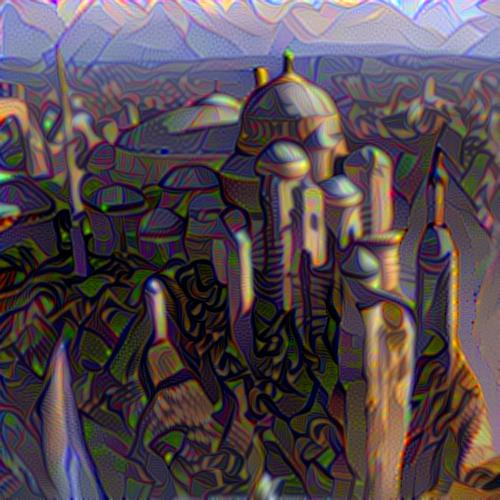
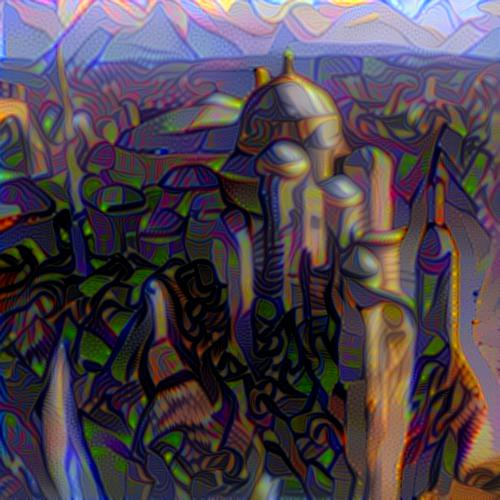
Completed style transfer. Produces stylized images but transfer steps are virtually identical.

diff --git a/lab3.py b/lab3.py
@@ -27,30 +27,26 @@ os.environ['TF_CPP_MIN_LOG_LEVEL'] = '2'
 CONTENT_IMG_PATH = ""           #TODO: Add this.
 STYLE_IMG_PATH = ""             #TODO: Add this.
 
-
 CONTENT_IMG_H = 500
 CONTENT_IMG_W = 500
 
 STYLE_IMG_H = 500
 STYLE_IMG_W = 500
 
-CONTENT_WEIGHT = 1    # Alpha weight.
-STYLE_WEIGHT = 1000      # Beta weight.
-TOTAL_WEIGHT = 100
+CONTENT_WEIGHT = 0.0001    # Alpha weight.
+STYLE_WEIGHT = 0.1      # Beta weight.
+TOTAL_WEIGHT = 0.001
 
-TRANSFER_ROUNDS = 50
+TRANSFER_ROUNDS = 100
 
 SAVE_PATH = None
 
 globalLoss = None
 globalGrads = None
 getLossAndGradients = None
+
 #=============================<Helper Fuctions>=================================
-'''
-TODO: implement this.
-This function should take the tensor and re-convert it to an image.
-'''
-def deprocessImage(img):
+def deprocessImage(img): # Deprocessing explained in https://harishnarayanan.org/writing/artistic-style-transfer/
     if K.image_data_format() == 'channels_first':
         img = img.reshape((3, CONTENT_IMG_H, CONTENT_IMG_W))
         img = img.transpose((1, 2, 0))
@@ -70,14 +66,6 @@ def gramMatrix(x):
     return gram
 
 
-def getOutput(layers, model):
-    output = list()
-    for layer in layers:
-        output.append(model.get_layer(layer).output)
-    print(output)
-    return output
-
-
 #========================<Loss Function Builder Functions>======================
 
 def styleLoss(style, gStyle):
@@ -90,12 +78,10 @@ def contentLoss(content, gContent):
     return K.sum(K.square(gContent - content))
 
 
-def totalLoss(x):
-    a = K.square(x[:, :CONTENT_IMG_H - 1, :CONTENT_IMG_W - 1, :] -
-                 x[:, 1:, :CONTENT_IMG_W - 1, :])
-    b = K.square(x[:, :CONTENT_IMG_H - 1, :CONTENT_IMG_W - 1, :] -
-                 x[:, :CONTENT_IMG_H - 1, 1:, :])
-    return K.sum(K.pow(a + b, 1.25))
+# def totalLoss(x):
+#     a = x[:, :, 1:, :] - x[:, :, :-1, :]
+#     b = x[:, 1:, :, :] - x[:, :-1, :, :]
+#     return tf.reduce_sum(tf.abs(a)) + tf.reduce_sum(tf.abs(b))
 
 
 def calculateLoss(x):
@@ -115,7 +101,6 @@ def getGradients(x):
     globalLoss = None
     globalGrads = None
     return grads
-
 
 
 #=========================<Pipeline Functions>==================================
@@ -146,6 +131,8 @@ def preprocessData(raw):
     return img
 
 
+
+
 '''
 TODO: Allot of stuff needs to be implemented in this function.
 First, make sure the model is set up properly.
@@ -162,6 +149,7 @@ def styleTransfer(cData, sData, tData):
     inputTensor = K.concatenate([contentTensor, styleTensor, genTensor], axis=0)
 
     model = vgg19.VGG19(include_top=False, weights='imagenet', input_tensor=inputTensor)
+    model.trainable = False
 
     outputDict = dict([(layer.name, layer.output) for layer in model.layers])
 
@@ -183,12 +171,12 @@ def styleTransfer(cData, sData, tData):
         gStyleOutput = styleLayer[2, :, :, :]
         loss = loss + ((STYLE_WEIGHT / len(styleLayerNames)) * styleLoss(styleOutput, gStyleOutput))   #TODO: implement.
 
-    loss = loss + (TOTAL_WEIGHT * totalLoss(genTensor))
+    # loss = loss + (TOTAL_WEIGHT * totalLoss(genTensor))
+    loss = loss * TOTAL_WEIGHT
 
     # TODO: Setup gradients or use K.gradients().
     global getLossAndGradients
     grads = K.gradients(loss, genTensor)[0]
-    assert grads is not None
     getLossAndGradients = K.function([genTensor], [loss, grads])
 
     print("   Beginning transfer.")
@@ -199,13 +187,13 @@ def styleTransfer(cData, sData, tData):
         x, tLoss, info = fmin_l_bfgs_b(func=calculateLoss,
                                     x0=tData.flatten(),
                                     fprime=getGradients,
-                                    maxfun=35)
+                                    maxiter=100)
         print("      Loss: %f." % tLoss)
         print("      funcalls:", info['funcalls'])
         print("      nit:", info['nit'])
 
         img = deprocessImage(x)
-        if i % 5 == 0 or i == TRANSFER_ROUNDS - 1:
+        if i % 10 == 0 or i == TRANSFER_ROUNDS - 1:
           savePath = '%s-%s.jpg' % (SAVE_PATH, i)
           imageio.imwrite('%s' % savePath, img)
           print("      Image saved to \"%s\"" % savePath)
@@ -215,43 +203,44 @@ def styleTransfer(cData, sData, tData):
     print("   Transfer complete.")
 
 
-
 #=========================<Main>================================================
 
-def parseArgs():
+def parseArgs(style, content):
     global CONTENT_IMG_PATH, STYLE_IMG_PATH, SAVE_PATH, CONTENT_WEIGHT, STYLE_WEIGHT, TOTAL_WEIGHT
-    argv = sys.argv[1:]
-    try:
-        opts, _ = getopt.getopt(argv, 's:c:a:b:h')
-    except:
-        raise ValueError('Unrecognized argument. See -h for help')
+    # argv = sys.argv[1:]
+    # try:
+    #     opts, _ = getopt.getopt(argv, 's:c:a:b:h')
+    # except:
+    #     raise ValueError('Unrecognized argument. See -h for help')
 
-    for opt, arg in opts:
-        if opt == '-c':
-            CONTENT_IMG_PATH = arg
-        elif opt == '-s':
-            STYLE_IMG_PATH = arg
-        elif opt == 'a':
-            if (arg < 0 or arg > 1):
-                raise ValueError('Content weight must be in [0, 1]')
-            CONTENT_WEIGHT = float(arg)
-        elif opt == 'b':
-            if (arg < 0 or arg > 1):
-                raise ValueError('Style weight must be in [0, 1]')
-            STYLE_WEIGHT = float(arg)
-        elif opt == '-h':
-            print('Usage: \n\
-                -c <path to content image>\n\
-                -s <path to style image>\n\
-                -a <content weight>\n\
-                -b <style weight>\n')
-            sys.exit()
+    # for opt, arg in opts:
+    #     if opt == '-c':
+    #         CONTENT_IMG_PATH = arg
+    #     elif opt == '-s':
+    #         STYLE_IMG_PATH = arg
+    #     elif opt == 'a':
+    #         if (arg < 0 or arg > 1):
+    #             raise ValueError('Content weight must be in [0, 1]')
+    #         CONTENT_WEIGHT = float(arg)
+    #     elif opt == 'b':
+    #         if (arg < 0 or arg > 1):
+    #             raise ValueError('Style weight must be in [0, 1]')
+    #         STYLE_WEIGHT = float(arg)
+    #     elif opt == '-h':
+    #         print('Usage: \n\
+    #             -c <path to content image>\n\
+    #             -s <path to style image>\n\
+    #             -a <content weight>\n\
+    #             -b <style weight>\n')
+    #         sys.exit()
+    CONTENT_IMG_PATH = content
+    STYLE_IMG_PATH = style
 
     contentName = CONTENT_IMG_PATH[CONTENT_IMG_PATH.rfind('/') + 1 : CONTENT_IMG_PATH.rfind('.')]
     styleName = STYLE_IMG_PATH[STYLE_IMG_PATH.rfind('/') + 1 : STYLE_IMG_PATH.rfind('.')]
 
     # Make new directory to save outputs to
-    path = os.path.join('./output', '%s-%s' % (styleName, contentName))
+    path = os.path.join('%s./output' % DRIVE_PREFIX, '%s-%s' % (styleName, contentName))
     if not os.path.isdir(path):
       os.mkdir(path)
     # Save copies of original content and style image for convenience
@@ -260,9 +249,8 @@ def parseArgs():
     SAVE_PATH = '%s/%s-%s' % (str(path), styleName, contentName)
 
 
-
 def main():
-    parseArgs()
+    parseArgs('%s./style/weeping-woman.jpg' % DRIVE_PREFIX, '%s./content/earth.jpg' % DRIVE_PREFIX)
     print("Starting style transfer program.")
     raw = getRawData()
     cData = preprocessData(raw[0])   # Content image.
@@ -270,7 +258,6 @@ def main():
     tData = preprocessData(raw[2])   # Transfer image.
     styleTransfer(cData, sData, tData)
     print("Done. Goodbye.")
-
 
 
 if __name__ == "__main__":
